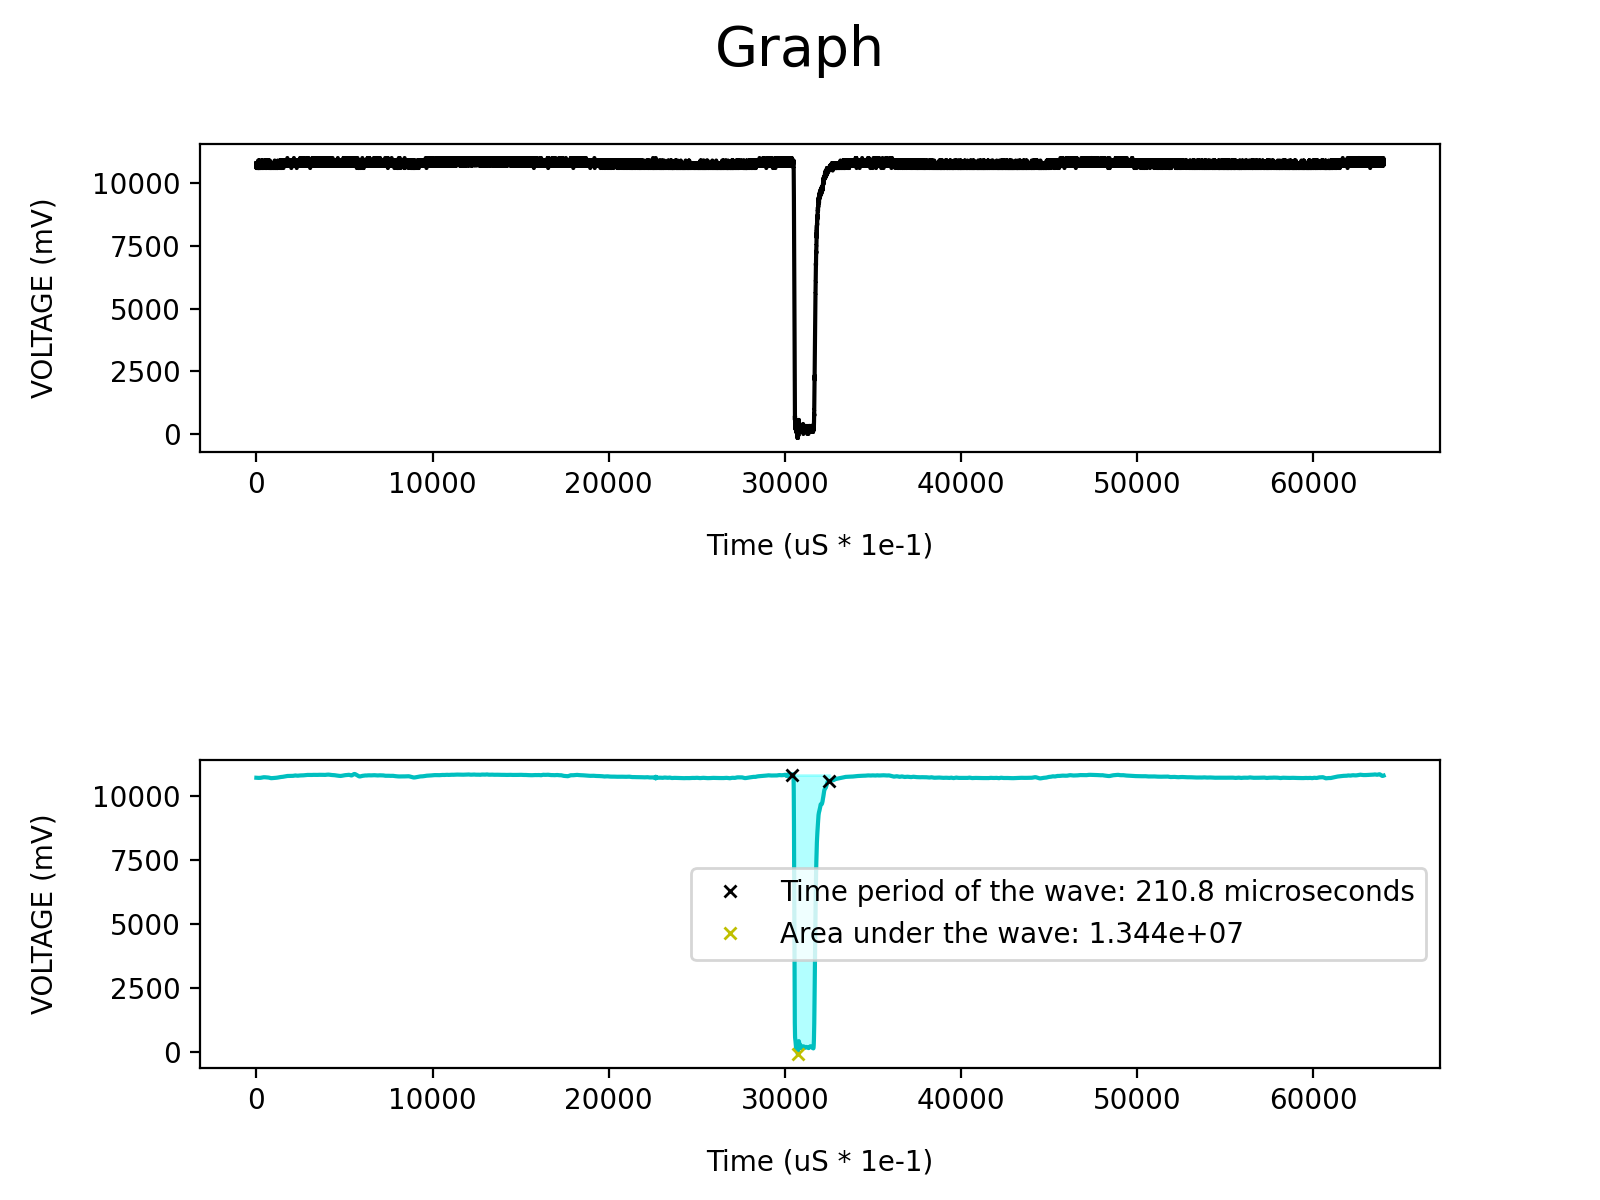
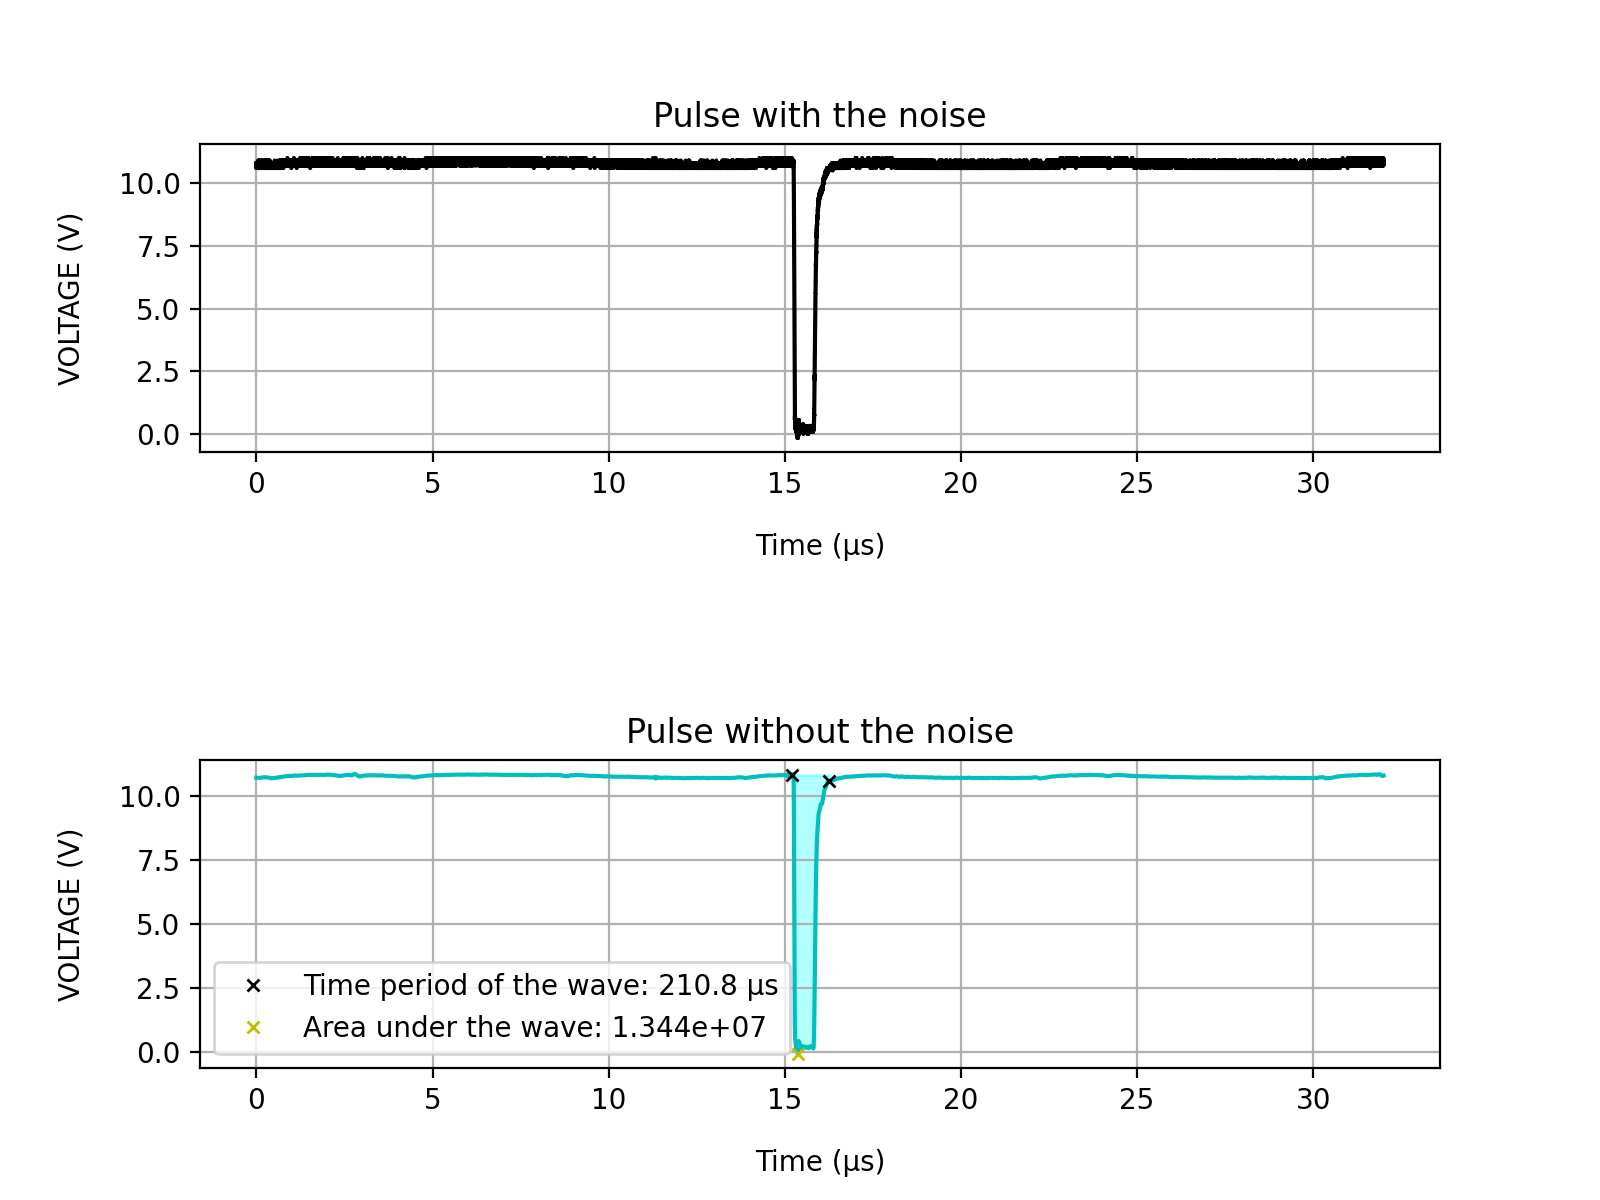
final formatting

diff --git a/main.py b/main.py
@@ -125,7 +125,7 @@ class Root:
     def display_data(self):  # Method to display the data gathered
         fig, (ax1, ax3) = plt.subplots(nrows=2, ncols=1, figsize=(8, 6),
                                        dpi=200)  # Show both graphs at the same time
-        ax1.plot(self.x_axis, self.y_axis, "-k")
+        ax1.plot(self.x_axis / 2000, np.array(self.y_axis) / 1000, "-k")
         ax1.set_ylabel("VOLTAGE (V)", labelpad=12)
         ax1.set_xlabel("Time (µs)", labelpad=12)
 
@@ -139,28 +139,31 @@ class Root:
 
         if peaks.size >= 2:  # Check whether enough peaks are found to accurately calculate area under the pulse
             total_area, start, end, max1 = self.find_area(self.y_axis, peaks)
-            ax3.plot(self.x_axis, self.y_denoised, "-c")
+            ax3.plot(self.x_axis / 2000, self.y_denoised / 1000, "-c")
             y_max = max(self.y_axis)
             y_min = min(self.y_axis)
             self.y_axis = list(map(lambda x: x * -1 + y_max + y_min, self.y_axis))  # Reverse to portray actual graph
-            ax3.fill_between(self.x_axis[start: end + 1], self.y_axis[start: end + 1], self.y_axis[start], alpha=0.3,
+            ax3.fill_between(self.x_axis[start: end + 1] / 2000, np.array(self.y_axis[start: end + 1]) / 1000, self.y_axis[start] / 1000, alpha=0.3,
                              color="cyan")
-            ax3.plot(start, np.take(self.y_axis, start), "xk", markersize=4,
-                     label="Time period of the wave: {calc} microseconds".format(calc=(end - start) / 10))
-            ax3.plot(end, np.take(self.y_axis, end), "xk", markersize=4)
-            ax3.plot(max1, np.take(self.y_axis, max1), "xy", markersize=4,
+            ax3.plot(start / 2000, np.take(self.y_axis, start) / 1000, "xk", markersize=4,
+                     label="Time period of the wave: {calc} µs".format(calc=(end - start) / 10))
+            ax3.plot(end / 2000, np.take(self.y_axis, end) / 1000, "xk", markersize=4)
+            ax3.plot(max1 / 2000, np.take(self.y_axis, max1) / 1000, "xy", markersize=4,
                      label="Area under the wave: {total_area:.3e}".format(total_area=total_area))
         else:
             ax3.plot(self.x_axis, self.y_denoised, "-c")
             print("no peaks detected :(")
 
-        ax3.set_ylabel("VOLTAGE (mV)", labelpad=12)
-        ax3.set_xlabel("Time (µs * 1e-1)", labelpad=12)
+        ax3.set_ylabel("VOLTAGE (V)", labelpad=12)
+        ax3.set_xlabel("Time (µs)", labelpad=12)
 
         plt.subplots_adjust(hspace=1)
         self.end = time.time()
         ax3.legend()
-        fig.suptitle("Graph", size=20)
+        ax3.set_title("Pulse without the noise")
+        ax1.set_title("Pulse with the noise")
+        ax1.grid()
+        ax3.grid()
         plt.savefig("Singraph.png")
         plt.show()
 
